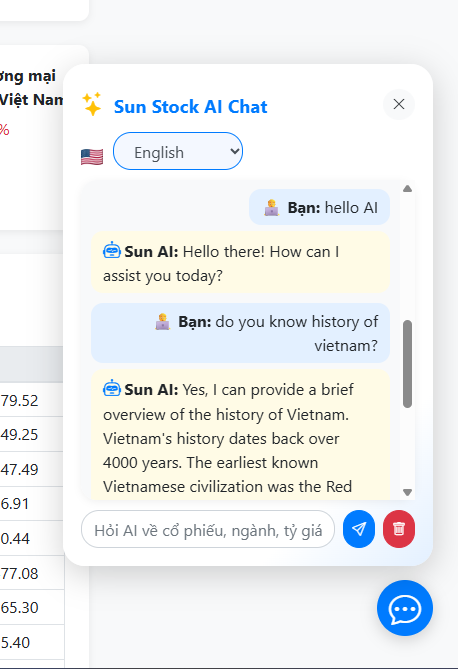
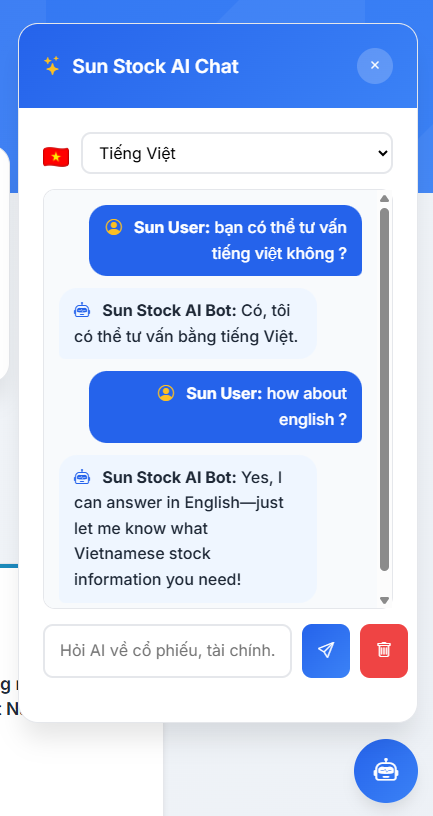
Refactor interfaces and services; migrate AI chat to OpenRouter API, update README, and enhance UI for chat messages

diff --git a/resources/views/layouts/app.blade.php b/resources/views/layouts/app.blade.php
@@ -636,10 +636,11 @@
             
             let box = document.getElementById('aiChatMessages');
             box.innerHTML += `<div style="margin-bottom:12px;text-align:right;">
-                <span style="background:var(--primary-blue);color:white;border-radius:18px 18px 6px 18px;padding:10px 15px;display:inline-block;max-width:85%;font-weight:500;">
-                    ${msg}
-                </span>
-            </div>`;
+    <span style="background:var(--primary-blue);color:white;border-radius:18px 18px 6px 18px;padding:10px 15px;display:inline-block;max-width:90%;font-weight:500;">
+        <i class="bi bi-person-circle" style="color:#fbbf24;margin-right:8px;"></i>
+        <b>Sun User:</b> ${msg}
+    </span>
+</div>`;
             
             document.getElementById('aiChatInput').value = '';
             
@@ -658,10 +659,11 @@
             }).then(res => res.json()).then(data => {
                 document.getElementById('aiLoading').remove();
                 box.innerHTML += `<div style="margin-bottom:12px;">
-                    <span style="background:var(--light-blue);border-radius:18px 18px 18px 6px;padding:10px 15px;display:inline-block;max-width:85%;font-weight:500;">
-                        <i class="bi bi-robot" style="color:var(--primary-blue);margin-right:8px;"></i>${data.answer}
-                    </span>
-                </div>`;
+        <span style="background:var(--light-blue);border-radius:18px 18px 18px 6px;padding:10px 15px;display:inline-block;max-width:85%;font-weight:500;">
+            <i class="bi bi-robot" style="color:var(--primary-blue);margin-right:8px;"></i>
+            <b>Sun Stock AI Bot:</b> ${data.answer}
+        </span>
+    </div>`;
                 box.scrollTop = box.scrollHeight;
             }).catch(err => {
                 document.getElementById('aiLoading').remove();

diff --git a/app/Services/AiService.php b/app/Services/AiService.php
@@ -6,14 +6,24 @@ use Illuminate\Support\Facades\Http;
 
 class AiService
 {
-    public function askOllama($prompt, $model = 'mistral')
+    public function ask($prompt, $lang = 'vi', $model = 'openai/gpt-oss-20b:free')
     {
-        $response = Http::timeout(180)->post('http://localhost:11434/api/generate', [
+        $apiKey = env('OPENROUTER_API_KEY');
+        $referer = config('app.url', 'http://127.0.0.1:8000');
+        $systemPrompt = $lang === 'en'
+            ? "You are a financial assistant for Vietnamese stocks. Answer concisely and accurately in English."
+            : "Bạn là trợ lý tài chính chuyên về chứng khoán Việt Nam. Trả lời ngắn gọn, chính xác, bằng tiếng Việt.";
+        $response = Http::withHeaders([
+            'Authorization' => 'Bearer ' . $apiKey,
+            'HTTP-Referer' => $referer,
+            'X-Title' => 'Sun Stock AI'
+        ])->post('https://openrouter.ai/api/v1/chat/completions', [
             'model' => $model,
-            'prompt' => $prompt,
-            'stream' => false,
-            // 'options' => ['num_predict' => 128]
+            'messages' => [
+                ['role' => 'system', 'content' => $systemPrompt],
+                ['role' => 'user', 'content' => $prompt]
+            ]
         ]);
-        return $response->json('response');
+        return $response->json('choices.0.message.content');
     }
-    }
+}

diff --git a/app/Http/Controllers/StockController.php b/app/Http/Controllers/StockController.php
@@ -7,16 +7,16 @@
 namespace App\Http\Controllers;
 
 use Illuminate\Http\Request;
-use App\Repositories\StockRepositoryInterface;
+use App\Interfaces\StockRepositoryInterface;
 use App\Services\StockService;
 use App\Models\Stock;
 use App\Models\StockPrice;
 use App\Models\StockSymbol;
 use Carbon\Carbon;
-use App\Repositories\ExchangeRateRepositoryInterface;
+use App\Interfaces\ExchangeRateRepositoryInterface;
 use Illuminate\Support\Facades\Cache;
 use App\Services\AiService;
-use App\Services\NewsServiceInterface;
+use App\Interfaces\NewsServiceInterface;
 
 class StockController extends Controller
 {
@@ -115,11 +115,7 @@ class StockController extends Controller
     {
         $question = $request->input('message');
         $lang = $request->input('lang', 'vi');
-        // Thêm hướng dẫn ngôn ngữ vào prompt
-        $prompt = $lang === 'en'
-            ? "Answer in English: " . $question
-            : "Trả lời bằng tiếng Việt: " . $question;
-        $answer = $aiService->askOllama($prompt, 'mistral');
+        $answer = $aiService->ask($question, $lang);
         return response()->json(['answer' => $answer]);
     }
 }

diff --git a/app/Providers/AppServiceProvider.php b/app/Providers/AppServiceProvider.php
@@ -16,15 +16,15 @@ class AppServiceProvider extends ServiceProvider
     public function register(): void
     {
         $this->app->bind(
-            \App\Repositories\StockRepositoryInterface::class,
+            \App\Interfaces\StockRepositoryInterface::class,
             \App\Repositories\StockRepository::class
         );
         $this->app->bind(
-            \App\Repositories\ExchangeRateRepositoryInterface::class,
+            \App\Interfaces\ExchangeRateRepositoryInterface::class,
             \App\Repositories\ExchangeRateRepository::class
         );
         $this->app->bind(
-            \App\Services\NewsServiceInterface::class,
+            \App\Interfaces\NewsServiceInterface::class,
             \App\Services\NewsService::class
         );
     }

diff --git a/app/Repositories/StockRepository.php b/app/Repositories/StockRepository.php
@@ -12,6 +12,7 @@ use App\Models\StockSymbol;
 use Carbon\Carbon;
 use App\Services\StockService;
 use Illuminate\Support\Facades\Cache;
+use App\Interfaces\StockRepositoryInterface;
 
 class StockRepository implements StockRepositoryInterface
 {

diff --git a/app/Repositories/ExchangeRateRepository.php b/app/Repositories/ExchangeRateRepository.php
@@ -2,6 +2,7 @@
 namespace App\Repositories;
 
 use App\Models\ExchangeRate;
+use App\Interfaces\ExchangeRateRepositoryInterface;
 
 class ExchangeRateRepository implements ExchangeRateRepositoryInterface
 {

diff --git a/app/Interfaces/StockRepositoryInterface.php b/app/Interfaces/StockRepositoryInterface.php
@@ -4,7 +4,7 @@
  * Email: nhat.nguyenminh94@gmail.com
  * Github: https://github.com/nhatnguyen94
  */
-namespace App\Repositories;
+namespace App\Interfaces;
 
 interface StockRepositoryInterface
 {

diff --git a/app/Services/ExchangeRateService.php b/app/Services/ExchangeRateService.php
@@ -1,7 +1,7 @@
 <?php
 namespace App\Services;
 
-use App\Repositories\ExchangeRateRepositoryInterface;
+use App\Interfaces\ExchangeRateRepositoryInterface;
 
 class ExchangeRateService
 {

diff --git a/app/Services/NewsService.php b/app/Services/NewsService.php
@@ -1,5 +1,6 @@
 <?php
 namespace App\Services;
+use App\Interfaces\NewsServiceInterface;
 
 class NewsService implements NewsServiceInterface
 {

diff --git a/app/Interfaces/ExchangeRateRepositoryInterface.php b/app/Interfaces/ExchangeRateRepositoryInterface.php
@@ -1,5 +1,5 @@
 <?php
-namespace App\Repositories;
+namespace App\Interfaces;
 
 interface ExchangeRateRepositoryInterface
 {

diff --git a/app/Interfaces/NewsServiceInterface.php b/app/Interfaces/NewsServiceInterface.php
@@ -1,6 +1,6 @@
 <?php
 
-namespace App\Services;
+namespace App\Interfaces;
 
 interface NewsServiceInterface
 {

diff --git a/README.md b/README.md
@@ -20,46 +20,30 @@ Auto-update data, beautiful responsive UI, fast autocomplete for stock symbols.
 - **Tỷ giá ngoại tệ Vietcombank / Vietcombank exchange rates**: Hiển thị tỷ giá 3 ngày gần nhất.
 - **Top 30 công ty hot theo ngành / Top 30 hot companies by industry**: Bảng các mã nổi bật theo ngành, số lượng linh động.
 - **📰 Tin tức thị trường realtime / Real-time market news**
-- **🔥 Tích hợp AI Model Chat / Integrated AI Model Chat**: Popup chat bubble ở góc phải dưới, hỏi đáp về cổ phiếu, ngành, tỷ giá, tài chính.  
-  Hỗ trợ chọn ngôn ngữ (Tiếng Việt/English), đổi model AI (gemma3:1b, mistral...), giao diện đẹp, chuyên nghiệp.
+- **🔥 Tích hợp AI Model Chat (OpenRouter) / Integrated AI Model Chat (OpenRouter)**: Popup chat bubble ở góc phải dưới, hỏi đáp về cổ phiếu, ngành, tỷ giá, tài chính.  
+  Hỗ trợ chọn ngôn ngữ (Tiếng Việt/English), đổi model AI (OpenRouter: gemma3:1b, mistral, llama...), giao diện đẹp, chuyên nghiệp.
+  Popup chat bubble at bottom right, ask about stocks, industries, exchange rates, finance.  
+  Supports language selection (Vietnamese/English), easy AI model switching (OpenRouter: gemma3:1b, mistral, llama...), beautiful and professional UI.
 
 ---
 
 ## 🆕 Nhật ký cập nhật / Update Log
 
+- **2025-08-23:**  
+  - Chuyển AI Model Chat từ Ollama sang OpenRouter API: Không cần cài đặt, chỉ cần API key, hỗ trợ nhiều model AI mạnh, dễ đổi model.  
+    Migrated AI Model Chat from Ollama to OpenRouter API: No installation required, just an API key, supports many powerful AI models, easy model switching.
+  - Cập nhật README song ngữ, hướng dẫn tích hợp và đổi model AI.  
+    Updated bilingual README, integration guide, and AI model switching instructions.
+
 - **2025-08-17:**  
-  - **Thêm tin tức thị trường VnExpress RSS**: Tích hợp NewsService lấy tin từ RSS VnExpress Kinh Doanh, hiển thị 6 tin mới nhất với grid layout hiện đại.  
-    **Added VnExpress market news RSS**: Integrated NewsService to fetch business news from VnExpress.
-  - **Tối ưu UX homepage**: Sắp xếp lại thứ tự sections (Cổ phiếu nổi bật → Tỷ giá → Ngành hot → Tin tức) để user journey hợp lý hơn.  
-    **Optimized homepage UX**: Reordered sections (Featured Stocks → Exchange Rates → Hot Industries → News) for better user journey.
-  - **News cards với hover effects**: Card design responsive, image hover zoom, featured badge cho 2 tin đầu, date badge overlay.  
-    **News cards with hover effects**: Responsive card design, image hover zoom, featured badge for first 2 news, date badge overlay.
-  - Sửa lỗi hiển thị tỷ giá ngoại tệ: xử lý dữ liệu chuỗi từ Python với `parseRate()`.  
-    Fixed exchange rate display bug: handle string data from Python with `parseRate()`.
-  - Cải thiện UI/UX form tìm kiếm và enhanced autocomplete với debounce search.  
-    Enhanced search form UI/UX and autocomplete with debounced search.
-  - Tối ưu CSS cho các trang với button styling, animations, hover effects.  
-    Optimized CSS for pages with button styling, animations, hover effects.
-
-- **2025-08-16:**  
-  - Tích hợp AI Model Chat (Ollama: gemma3:1b, mistral) với popup chat bubble hiện đại, chọn ngôn ngữ, đổi model dễ dàng.  
-    Integrated AI Model Chat (Ollama) with modern popup chat bubble, language selection, easy model switching.
-  - Cải thiện UI/UX chat với flag icons, rounded corners, shadows, clear chat history button.  
-    Improved chat UI/UX with flag icons, rounded corners, shadows, clear chat history button.
-
-- **2025-08-10 đến 2025-08-15:**  
-  - Thêm tỷ giá ngoại tệ Vietcombank (3 ngày gần nhất) với trang riêng và tính năng tìm kiếm theo ngày.  
-    Added Vietcombank exchange rates with dedicated page and date search feature.
-  - Thêm bảng top 30 công ty hot theo ngành, refactor Controller/Service theo chuẩn SOLID.  
-    Added top 30 hot companies by industry, refactored Controller/Service following SOLID principles.
-  - Footer đẹp với thông tin cá nhân, sửa UI homepage responsive tốt hơn.  
-    Beautiful footer with personal info, improved homepage responsive UI.
+  - Thêm tin tức thị trường VnExpress RSS, hiển thị 6 tin mới nhất với giao diện hiện đại.  
+    Added VnExpress market news RSS, displaying 6 latest news items with a modern UI.
+  - Tối ưu UX homepage: Sắp xếp lại các section, cải thiện giao diện và hiệu ứng.  
+    Optimized homepage UX: Reordered sections, improved UI and visual effects.
 
 - **Các phiên bản trước đó / Earlier versions:**  
-  - Tích hợp autocomplete tìm kiếm mã cổ phiếu với AJAX, biểu đồ Chart.js.  
-    Integrated autocomplete stock search with AJAX, Chart.js charts.
-  - Kiến trúc Laravel 12 + Python 3 với vnstock, MySQL, responsive Bootstrap UI.  
-    Laravel 12 + Python 3 architecture with vnstock, MySQL, responsive Bootstrap UI.
+  - Tra cứu giá cổ phiếu, biểu đồ, autocomplete tìm kiếm, lưu dữ liệu MySQL, tích hợp Python (vnstock), tỷ giá Vietcombank, top công ty hot theo ngành, giao diện responsive, kiến trúc SOLID, popup AI chat thông minh, footer cá nhân hóa.  
+    Stock price lookup, charts, autocomplete search, MySQL data storage, Python (vnstock) integration, Vietcombank exchange rates, top hot companies by industry, responsive UI, SOLID architecture, smart popup AI chat, personalized footer.
 
 ---
 
@@ -126,31 +110,59 @@ Auto-update data, beautiful responsive UI, fast autocomplete for stock symbols.
 
 ---
 
-## 🤖 Hướng dẫn cài đặt & sử dụng AI Model Chat
+## 🤖 Hướng dẫn cài đặt & sử dụng AI Model Chat (OpenRouter API)
 
-### 1. Cài đặt Ollama & Model AI
+### 1. Đăng ký & lấy API key OpenRouter
 
-- Tải Ollama tại [https://ollama.com/download](https://ollama.com/download)
-- Cài xong, mở terminal và chạy:
-    ```bash
-    ollama pull gemma3:1b
-    ollama run gemma3:1b
-    # Hoặc dùng model mạnh hơn:
-    ollama pull mistral
-    ollama run mistral
+- Truy cập [https://openrouter.ai](https://openrouter.ai)
+- Đăng ký tài khoản, vào phần **API Keys** để lấy key miễn phí.
+
+- Thêm vào file `.env`:
     ```
-- Đảm bảo Ollama đang chạy trên `localhost:11434`
+    OPENROUTER_API_KEY=your_openrouter_api_key
+    ```
 
 ### 2. Sử dụng AI Chat trên web
 
 - Nhấn vào icon 💬 ở góc phải dưới để mở popup chat AI.
 - Chọn ngôn ngữ (🇻🇳/🇺🇸), nhập câu hỏi về cổ phiếu, ngành, tỷ giá, tài chính...
 - AI sẽ trả lời bằng tiếng Việt hoặc English theo lựa chọn.
-- Có thể đổi model AI bằng cách sửa tên model trong file `app/Services/AiService.php`:
-    ```php
-    public function askOllama($prompt, $model = 'gemma3:1b')
+- Có thể đổi model AI bằng cách sửa tên model trong file `app/Services/AiService.php`, ví dụ:
     ```
-    hoặc `'mistral'` nếu muốn dùng model mạnh hơn.
+    meta-llama/llama-3-70b-instruct
+    mistralai/mixtral-8x7b-instruct
+    nousresearch/nous-hermes-2-mistral-7b
+    openchat/openchat-3.5-0106
+    ```
+- Tham khảo danh sách model tại: [https://openrouter.ai/models](https://openrouter.ai/models)
+
+---
+
+## 🤖 AI Model Chat Setup Guide (OpenRouter API)
+
+### 1. Register & get OpenRouter API key
+
+- Go to [https://openrouter.ai](https://openrouter.ai)
+- Sign up, get your free API key in the **API Keys** section.
+
+- Add to your `.env` file:
+    ```
+    OPENROUTER_API_KEY=your_openrouter_api_key
+    ```
+
+### 2. Use AI Chat on the web
+
+- Click the 💬 icon at the bottom right to open the AI chat popup.
+- Select language (🇻🇳/🇺🇸), enter your question about stocks, industries, exchange rates, finance...
+- AI will reply in Vietnamese or English as selected.
+- You can change the AI model by editing the model name in `app/Services/AiService.php`, e.g.:
+    ```
+    meta-llama/llama-3-70b-instruct
+    mistralai/mixtral-8x7b-instruct
+    nousresearch/nous-hermes-2-mistral-7b
+    openchat/openchat-3.5-0106
+    ```
+- See all available models at: [https://openrouter.ai/models](https://openrouter.ai/models)
 
 ---
 
@@ -179,7 +191,7 @@ Footer always shows author info.
 - **Laravel 12** (PHP)
 - **Python 3 + vnstock**
 - **Bootstrap 4, Bootstrap Icons**
-- **Ollama AI Model Chat (gemma3:1b, mistral...)**
+- **OpenRouter AI Model Chat**
 - **SOLID: Controller, Service, Repository, Interface**
 - **MySQL**
 
@@ -189,9 +201,9 @@ Footer always shows author info.
 
 **Sun Nguyen**  
 Email: [nhat.nguyenminh94@gmail.com](mailto:nhat.nguyenminh94@gmail.com)  
-GitHub: [nhatnguyen94/stock-app](https://github.com/nhatnguyen94/stock-app)  
+GitHub: [nhatnguyen94/stock-app](https://github.com/nhatnguyen94/sunstock-ai-vn)  
 LinkedIn: [Sun Nguyen](https://www.linkedin.com/in/sunnguyen3011/)
 
 ---
 
-MIT License © 2025 Sun
+MIT License © 2025
